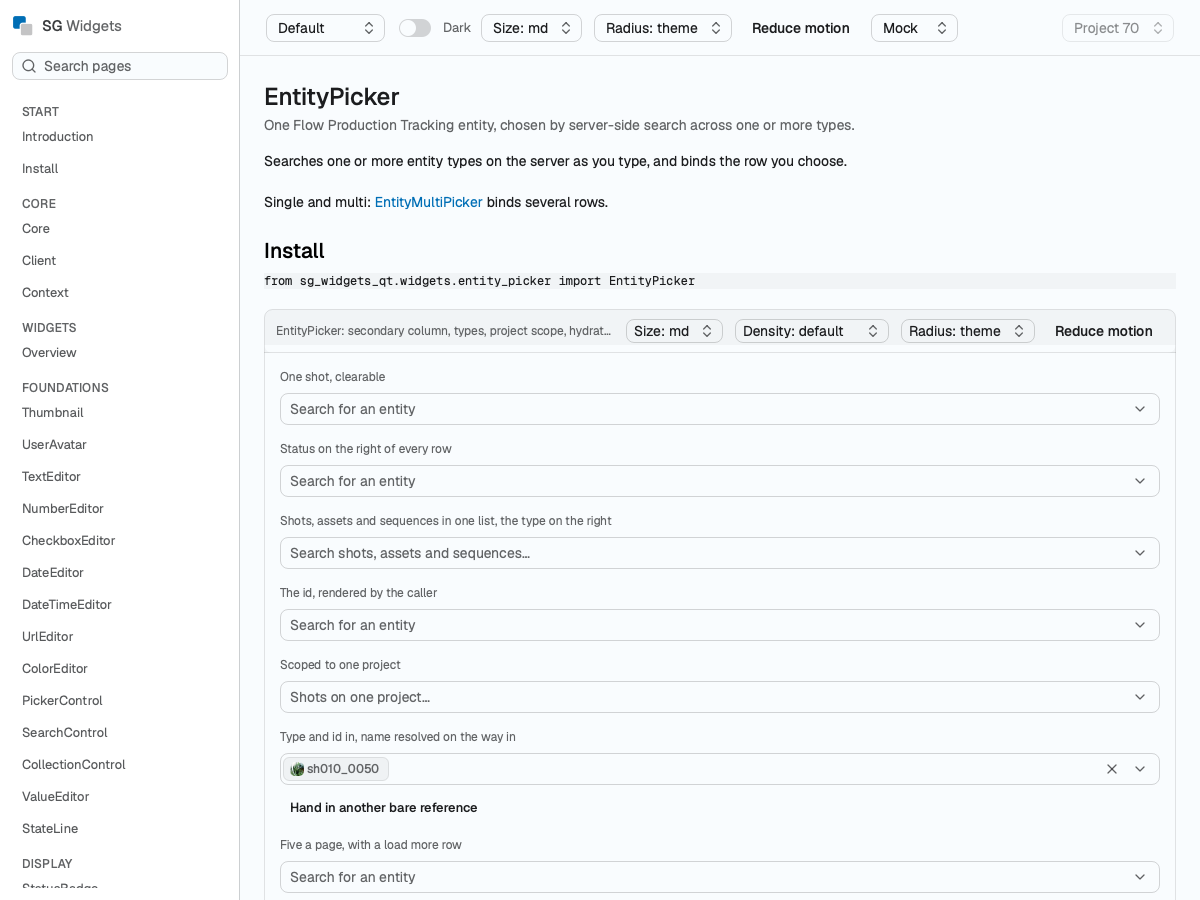
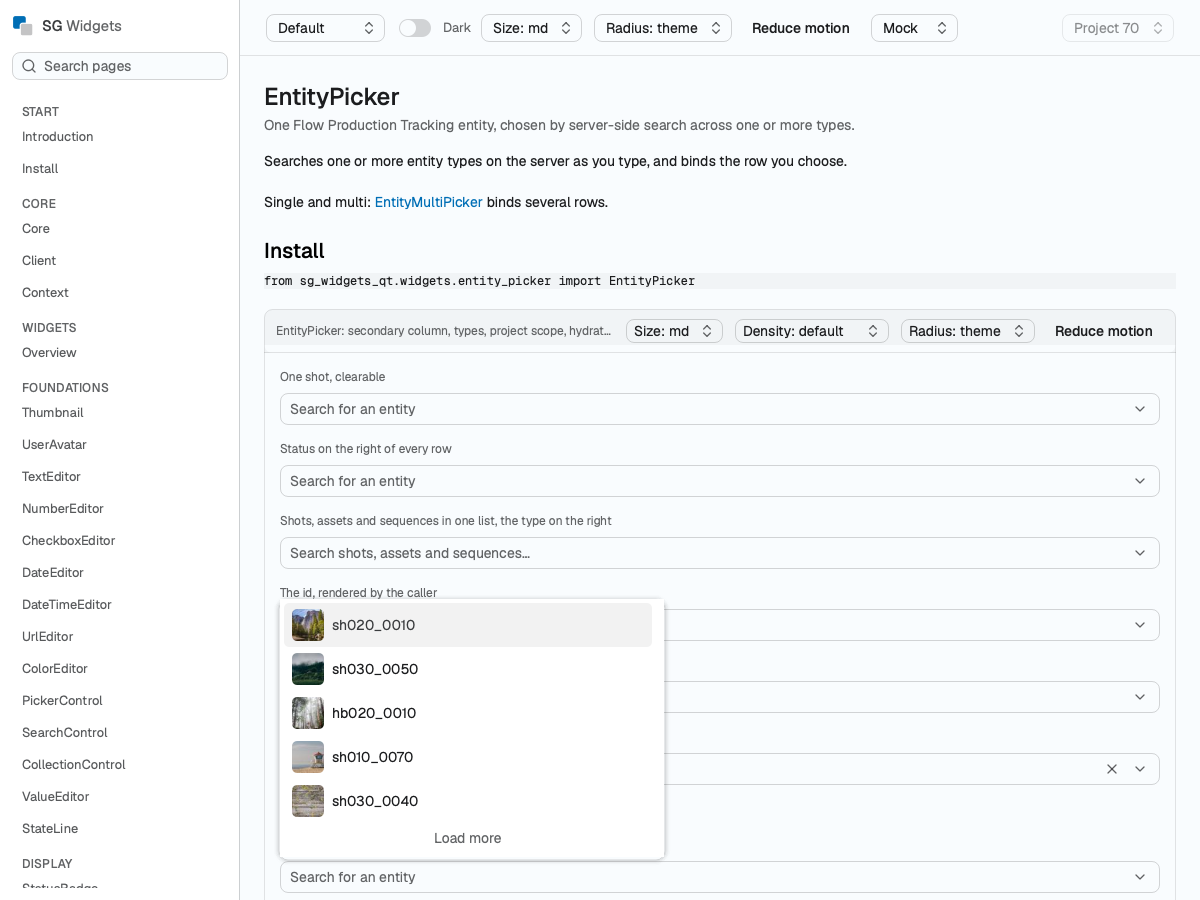
The field picker, the column picker and the field editor

Changed region(s): [[0.2158, 0.6533, 0.4317, 0.9644]]

diff --git a/src/sg_widgets_qt/widgets/picker_row.py b/src/sg_widgets_qt/widgets/picker_row.py
@@ -17,11 +17,11 @@ it is an option rather than a value.
 """
 from __future__ import annotations
 
-from collections.abc import Callable, Iterable, Sequence
+from collections.abc import Callable, Iterable, Mapping, Sequence
 from typing import Any
 
 from qtpy.QtCore import QAbstractListModel, QModelIndex, QObject, QRect, QSize, Qt, Signal
-from qtpy.QtGui import QColor, QPainter, QPixmap
+from qtpy.QtGui import QPainter, QPixmap
 from qtpy.QtWidgets import QSizePolicy, QStyle, QStyleOptionViewItem, QWidget
 
 from sg_widgets_core.picker import entity_key, placeholder_name
@@ -43,14 +43,14 @@ from sg_widgets_core.row import (
     secondary_type,
 )
 from sg_widgets_core.search import match_runs
-from sg_widgets_core.status import status_paint
 
 from ..images import ImageLoader, image_loader
 from ..primitives.roles import Roles
-from ..primitives.row_delegate import CODE_TEXT, LEAD, RowDelegate
+from ..primitives.row_delegate import LEAD, RowDelegate
 from ..theme import theme_of, watch_theme
 from ..workers import default_pool
 from .entity_glyphs import entity_glyph
+from .field_value import FieldValueOptions, field_value_size_hint, paint_field_value
 
 __all__ = [
     "PEOPLE_TYPES",
@@ -65,9 +65,8 @@ PEOPLE_TYPES: tuple[str, ...] = ("HumanUser", "ApiUser", "ClientUser")
 #: The crumb separator a hierarchy row draws before its label.
 CRUMB_SEPARATOR = " › "
 
-#: The dot a status secondary leads with, and the room between it and the label.
-STATUS_DOT = 8
-STATUS_GAP = 6
+#: The data type a status secondary is drawn by (`field_types/status_list`).
+STATUS_TYPE = "status_list"
 
 RowLike = Any
 """A core `PickerRow`, or anything carrying `type`, `id`, `name` and `values`."""
@@ -76,43 +75,37 @@ RowLike = Any
 _ROOT = QModelIndex()
 
 
-def status_painter(label: str, color: str | None) -> Callable[..., None]:
-    """A painter for a status secondary: the status colour as a dot, then its name.
+def status_painter(
+    code: str,
+    field: Any = None,
+    statuses: Mapping[str, Any] | None = None,
+    site_url: str = "",
+    on_ready: Callable[[], None] | None = None,
+) -> Callable[..., None]:
+    """A painter for a status secondary: the badge, right-aligned in the column it is given.
 
-    A status offered as an option is its glyph and its name as plain text, rule 9. The badge
-    is what a status is where it is a value, which a cell draws instead.
+    A status in a row's secondary column is a value rather than an option, and rule 9 draws a
+    value as the badge; `paint_field_value` is the one face that badge is drawn by, so a row
+    and a table cell read the same.
     """
 
     def paint(painter: QPainter, rect: QRect, option: QStyleOptionViewItem) -> None:
         widget = getattr(option, "widget", None)
         theme = theme_of(widget) if widget is not None else None
-        selected = bool(option.state & QStyle.StateFlag.State_Selected)
         if theme is None:
-            ink = QColor(128, 128, 128)
-        else:
-            ink = theme.color("accent_foreground" if selected else "muted_foreground")
-        painter.setFont(theme.font(CODE_TEXT) if theme is not None else painter.font())
-        metrics = painter.fontMetrics()
-        text = metrics.elidedText(
-            label, Qt.TextElideMode.ElideRight, max(0, rect.width() - STATUS_DOT - STATUS_GAP)
+            return
+        options = FieldValueOptions(
+            theme=theme,
+            field=field,
+            statuses=statuses,
+            site_url=site_url,
+            selected=bool(option.state & QStyle.StateFlag.State_Selected),
+            on_ready=on_ready,
         )
-        width = metrics.horizontalAdvance(text)
-        right = rect.right() + 1
-        box = QRect(right - width, rect.top(), width, rect.height())
-        painter.setPen(ink)
-        painter.drawText(
-            box, int(Qt.AlignmentFlag.AlignRight | Qt.AlignmentFlag.AlignVCenter), text
-        )
-        if color:
-            dot = QRect(
-                box.left() - STATUS_GAP - STATUS_DOT,
-                rect.center().y() - STATUS_DOT // 2,
-                STATUS_DOT,
-                STATUS_DOT,
-            )
-            painter.setPen(Qt.PenStyle.NoPen)
-            painter.setBrush(QColor(color))
-            painter.drawEllipse(dot)
+        wanted = field_value_size_hint(code, STATUS_TYPE, options).width()
+        width = max(0, min(wanted, rect.width()))
+        box = QRect(rect.right() + 1 - width, rect.top(), width, rect.height())
+        paint_field_value(painter, box, code, STATUS_TYPE, options)
 
     return paint
 
@@ -425,6 +418,9 @@ class PickerRowModel(QAbstractListModel):
             return row_code(_values(row), label, self._show_code)
         if role == Roles.SUB_LABEL:
             return self._sub_label_of(row, anatomy)
+        if role == Roles.SUB_RUNS:
+            sub = self._sub_label_of(row, anatomy)
+            return [(run.text, run.match) for run in match_runs(sub, self._query)] if sub else []
         if role == Roles.SECONDARY:
             return self._secondary_text(row, anatomy)
         if role == Roles.PAINTER:
@@ -509,11 +505,13 @@ class PickerRowModel(QAbstractListModel):
         data_type = secondary_type(anatomy, getattr(self._field, "data_type", None))
         if render_kind_for(data_type) != "status":
             return None
-        code = str(raw)
-        record = self._statuses.get(code)
-        paint = status_paint(record)
-        label = getattr(record, "name", "") or self._status_label(code)
-        return status_painter(label or code, paint.background if paint else None)
+        return status_painter(
+            str(raw),
+            field=self._field,
+            statuses=self._statuses,
+            site_url=self.site_url,
+            on_ready=self._redraw,
+        )
 
     def _status_label(self, code: str) -> str:
         values = getattr(self._field, "display_values", None)

diff --git a/tests/qt/test_picker_row.py b/tests/qt/test_picker_row.py
@@ -10,6 +10,7 @@ from qtpy.QtWidgets import QStyleOptionViewItem, QWidget
 
 from sg_widgets_core.picker import PickerRow
 from sg_widgets_core.render import initials_of, name_hue
+from sg_widgets_core.status import StatusRecord
 from sg_widgets_qt.images import ImageLoader
 from sg_widgets_qt.primitives.roles import Roles
 from sg_widgets_qt.primitives.row_delegate import initials_of as delegate_initials
@@ -110,8 +111,10 @@ def test_a_person_with_no_picture_falls_back_to_initials(host):
     assert model.data(model.index(0, 0), Roles.INITIALS) == "AL"
 
 
-def test_a_status_secondary_draws_as_a_glyph_and_a_name(host):
-    paint = status_painter("In progress", "#2563eb")
+def test_a_status_secondary_draws_as_the_badge(host):
+    """A status in a row's secondary column is a value, and rule 9 draws a value as the badge."""
+    record = StatusRecord(id=1, code="ip", name="In Progress", bg_color="38,141,255")
+    paint = status_painter("ip", statuses={"ip": record})
     option = QStyleOptionViewItem()
     option.widget = host
     canvas = QPixmap(200, 24)
@@ -121,14 +124,18 @@ def test_a_status_secondary_draws_as_a_glyph_and_a_name(host):
     device.end()
     image = canvas.toImage()
     marks = [
-        image.pixelColor(x, y)
+        (x, y)
         for x in range(image.width())
         for y in range(image.height())
         if image.pixelColor(x, y) != QColor(255, 255, 255)
     ]
-    # The status colour is drawn as the dot, and the name beside it.
     assert marks
-    assert any(colour.blue() > colour.red() for colour in marks)
+    # The badge is a bordered pill at the trailing edge, not a bare line of text.
+    left = min(x for x, _ in marks)
+    assert left > image.width() // 3
+    top = min(y for _, y in marks)
+    bottom = max(y for _, y in marks)
+    assert any(x == left and top < y < bottom for x, y in marks)
 
 
 def test_the_thumbnail_field_turns_the_leading_slot_off(host):
@@ -262,3 +269,14 @@ def test_a_page_landing_under_the_rows_is_an_insert_not_a_reset(qtbot):
     model.set_rows([ADA])
     assert events == ["reset"]
     assert model.rowCount() == 1
+
+
+def test_the_sub_label_marks_its_matched_runs_too(host):
+    """A row matched on its email shows why, as upstream's MatchText on the sub-label does."""
+    model = PickerRowModel([ADA], host, query="ada", sub_label_field="email")
+    runs = model.data(model.index(0, 0), Roles.SUB_RUNS)
+    assert "".join(text for text, _ in runs) == "ada@example.test"
+    assert [text for text, matched in runs if matched] == ["ada"]
+    # A row with no query marks nothing and keeps its line whole.
+    plain = PickerRowModel([ADA], host, sub_label_field="email")
+    assert [text for text, matched in plain.data(plain.index(0, 0), Roles.SUB_RUNS) if matched] == []

diff --git a/tools/qa.py b/tools/qa.py
@@ -108,6 +108,35 @@ def load_drive(path: str) -> object:
     return found
 
 
+def grab_with_popups(window: object) -> tuple:
+    """The window, with every popup standing over it drawn where it stands.
+
+    A popover here is a top-level window of its own, so `QWidget.grab` on the showcase window
+    answers a page with no list on it and a shot of an open picker would show the control alone.
+    The popups are grabbed in stacking order and painted at their offset from the window, which
+    is what a reader sees and what the upstream shot — one DOM — carries by itself.
+    """
+    from qtpy import QtCore, QtGui, QtWidgets
+
+    shot = window.grab()
+    ratio = shot.devicePixelRatio() or 1.0
+    origin = window.mapToGlobal(QtCore.QPoint(0, 0))
+    drawn: list = []
+    painter = QtGui.QPainter(shot)
+    for other in QtWidgets.QApplication.topLevelWidgets():
+        if other is window or not other.isVisible() or other.isHidden():
+            continue
+        if other.width() <= 0 or other.height() <= 0:
+            continue
+        where = other.mapToGlobal(QtCore.QPoint(0, 0)) - origin
+        painter.drawPixmap(where, other.grab())
+        drawn.append({"name": other.objectName() or type(other).__name__, "at": [where.x(), where.y()]})
+    painter.end()
+    if ratio:
+        shot.setDevicePixelRatio(ratio)
+    return shot, drawn
+
+
 #: How long the driver gives the reads in flight to land before it closes the window.
 DRAIN_MS = 4000
 
@@ -224,8 +253,10 @@ def main(argv: list[str] | None = None) -> int:
             target = Path(args.shot)
             target.parent.mkdir(parents=True, exist_ok=True)
             wait(120)
-            window.grab().save(str(target))
+            shot, over = grab_with_popups(window)
+            shot.save(str(target))
             out["shot"] = str(target)
+            out["popups"] = over
     except Exception as error:
         out["error"] = f"{type(error).__name__}: {error}"
         failed = True

diff --git a/tests/qt/test_primitives_leaf.py b/tests/qt/test_primitives_leaf.py
@@ -346,22 +346,28 @@ def test_an_expanded_button_keeps_its_hover_background(root):
     assert image(button) != plain
 
 
-def test_an_inert_field_wears_the_input_wash_and_fades_its_placeholder(root):
-    # `disabled:bg-input/50 disabled:opacity-50` of `input.tsx`: an inert field is not a plain
-    # box, and the ink Qt draws itself takes the inert step on the colour, since no painter
-    # opacity reaches it.
-    theme = theme_for("default")
+def test_an_inert_field_wears_the_input_wash(root):
+    # `disabled:bg-input/50` of `input.tsx`: an inert field is not a plain box.
     live = place(root, Input(placeholder="https://example.com/plate.mov"))
     inert = place(root, Input(placeholder="https://example.com/plate.mov"))
     inert.setEnabled(False)
     QtWidgets.QApplication.processEvents()
-
-    role = QtGui.QPalette.ColorRole
-    assert live.palette().color(role.PlaceholderText) == theme.color("muted_foreground")
-    assert inert.palette().color(role.PlaceholderText).alpha() == 128
-
     middle = (live.width() // 2, live.height() // 2)
     assert inert.grab().toImage().pixelColor(*middle) != live.grab().toImage().pixelColor(*middle)
+
+
+def test_an_inert_field_fades_the_ink_qt_draws_itself(root):
+    # `disabled:opacity-50` reaches the placeholder too, and no painter opacity does, so the
+    # inert step is on the colour the palette carries.
+    theme = theme_for("default")
+    role = QtGui.QPalette.ColorRole
+    field = Input(placeholder="https://example.com/plate.mov", parent=root)
+    field.apply_theme_to_palette()
+    assert field.palette().color(role.PlaceholderText).name() == theme.color("muted_foreground").name()
+    assert field.palette().color(role.PlaceholderText).alpha() == 255
+    field.setEnabled(False)
+    field.apply_theme_to_palette()
+    assert field.palette().color(role.PlaceholderText).alpha() == 128
 
 
 def test_the_switch_thumb_is_the_glyph_step(root):

diff --git a/src/sg_widgets_qt/primitives/row_delegate.py b/src/sg_widgets_qt/primitives/row_delegate.py
@@ -372,13 +372,13 @@ class RowDelegate(QStyledItemDelegate):
 
         if sub:
             sub_box = QRect(box.left(), top + label_height, box.width(), sub_height)
-            painter.setFont(theme.font(CODE_TEXT))
-            painter.setPen(muted)
-            shown = elide(painter, sub, sub_box.width())
-            cut = cut or shown != sub
-            painter.drawText(
-                sub_box, int(Qt.AlignmentFlag.AlignLeft | Qt.AlignmentFlag.AlignVCenter), shown
-            )
+            # The sub-label marks its matched runs too, so a row matched on its login or its
+            # email shows why it came back, as upstream's `MatchText` does there.
+            sub_runs = _sub_runs(index, sub)
+            quiet = theme.font(CODE_TEXT)
+            heavy = theme.font(CODE_TEXT, QFont.Weight.DemiBold)
+            painter.setFont(quiet)
+            cut = _draw_runs(painter, sub_box, sub_runs, quiet, heavy, muted, muted) or cut
 
         if cut:
             self._elided.add(index.row())
@@ -524,6 +524,19 @@ def label_weight(runs: Sequence[tuple[str, bool, bool]]) -> QFont.Weight:
     """
     crumbed = any(len(run) > 2 and run[2] for run in runs)
     return QFont.Weight.Medium if crumbed else QFont.Weight.Normal
+
+
+def _sub_runs(index: QModelIndex, sub: str) -> list[tuple[str, bool, bool]]:
+    """The sub-label as runs, or one plain run of it where the model marks none."""
+    value = index.data(Roles.SUB_RUNS)
+    if isinstance(value, Sequence) and not isinstance(value, str):
+        out: list[tuple[str, bool, bool]] = []
+        for run in value:
+            if isinstance(run, Sequence) and not isinstance(run, str) and len(run) >= 2:
+                out.append((str(run[0]), bool(run[1]), False))
+        if out:
+            return out
+    return [(sub, False, False)]
 
 
 def _runs(index: QModelIndex) -> list[tuple[str, bool, bool]]:

diff --git a/tools/drives/states/entity-picker.py b/tools/drives/states/entity-picker.py
@@ -74,6 +74,13 @@ def wait_for(read, wait, ms: int = 10000) -> bool:
     return False
 
 
+def _pictures(control: PickerControl) -> int:
+    """How many rows on show have their picture, which the shot waits for."""
+    model = control.list_surface().source_model()
+    held = getattr(model, "_pictures", None)
+    return len(held) if held is not None else 1
+
+
 def demo_widget(page):
     for stage in page.stages:
         found = stage.widget
@@ -128,7 +135,8 @@ def drive(page, wait, find, prefs) -> dict:  # noqa: C901
         paged = next((one for one in found if demo_of(one) == "more"), control)
         paged.set_open(True)
         wait_for(lambda: paged.list_surface().row_count() > 0, wait)
-        wait(500)
+        wait_for(lambda: _pictures(paged) > 0, wait, 6000)
+        wait(1200)
         return {
             "verdict": "PASS more",
             "state": state,
@@ -148,7 +156,9 @@ def drive(page, wait, find, prefs) -> dict:  # noqa: C901
 
     wait_for(lambda: control.list_surface().row_count() > 0, wait)
     if state == "open":
-        wait(500)
+        # The pictures are read after the rows, so the shot waits for them as upstream's does.
+        wait_for(lambda: _pictures(control) > 0, wait, 6000)
+        wait(1200)
         return {"verdict": "PASS open", "state": state, "rows": control.list_surface().row_count()}
 
     caret = control.caret()
@@ -156,9 +166,11 @@ def drive(page, wait, find, prefs) -> dict:  # noqa: C901
     QTest.keyClicks(caret, "sh010" if state == "query" else "zzzqqq")
     if state == "query":
         wait_for(lambda: control.list_surface().row_count() > 0, wait)
+        wait_for(lambda: _pictures(control) > 0, wait, 6000)
+        wait(1200)
     else:
         wait_for(lambda: control.empty, wait)
-    wait(600)
+        wait(600)
     return {
         "verdict": f"PASS {state}",
         "state": state,

diff --git a/src/sg_widgets_qt/primitives/roles.py b/src/sg_widgets_qt/primitives/roles.py
@@ -53,3 +53,5 @@ class Roles(IntEnum):
     PAINTER = int(Qt.ItemDataRole.UserRole) + 13
     #: True on a column that sorts, read by `HeaderDelegate`.
     SORTABLE = int(Qt.ItemDataRole.UserRole) + 14
+    #: The sub-label as runs, so a row matched on its login or its email shows why.
+    SUB_RUNS = int(Qt.ItemDataRole.UserRole) + 15
